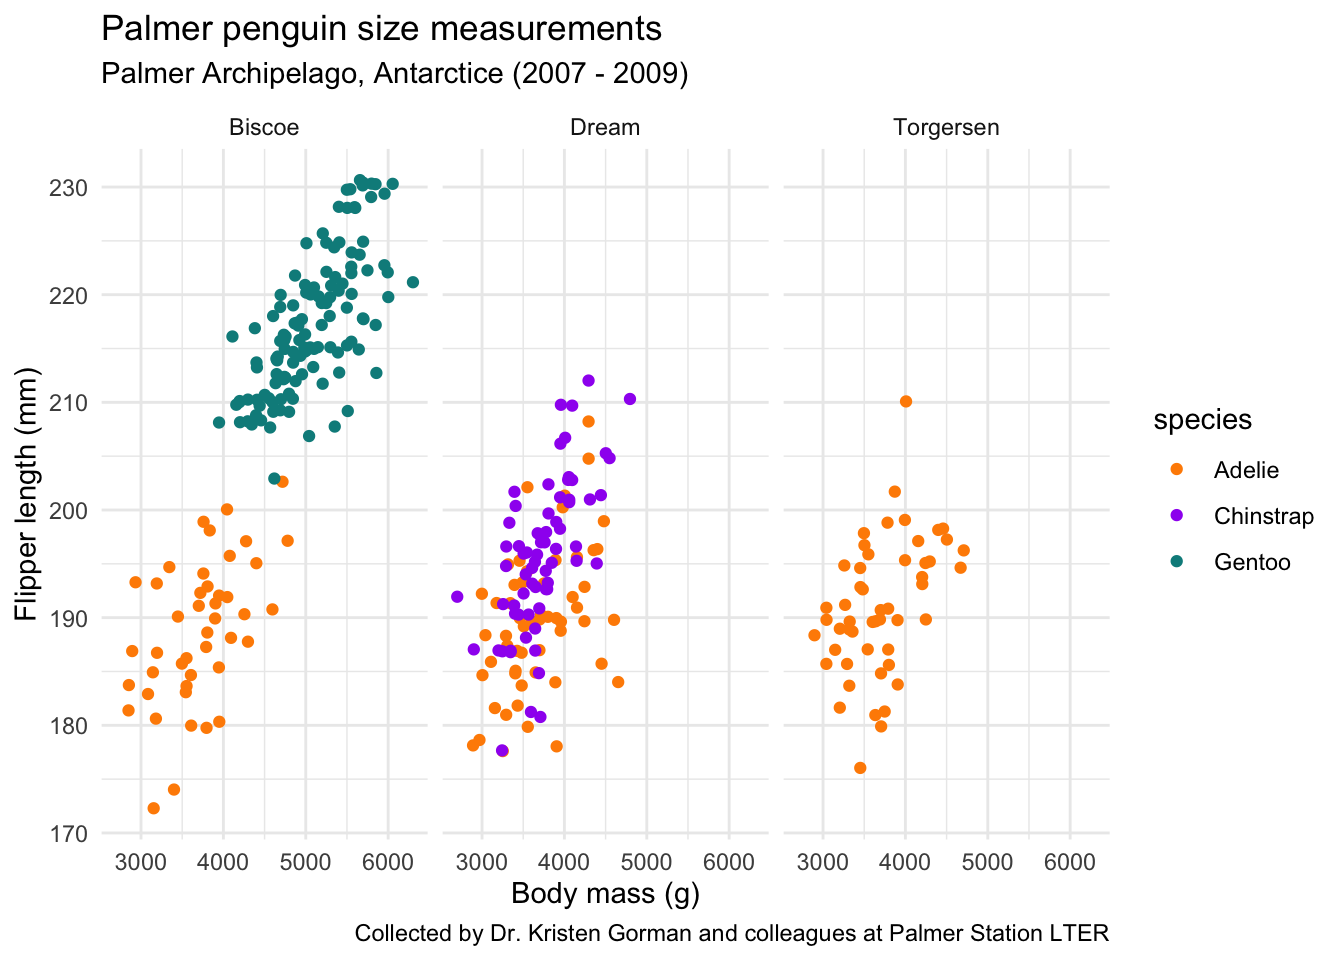
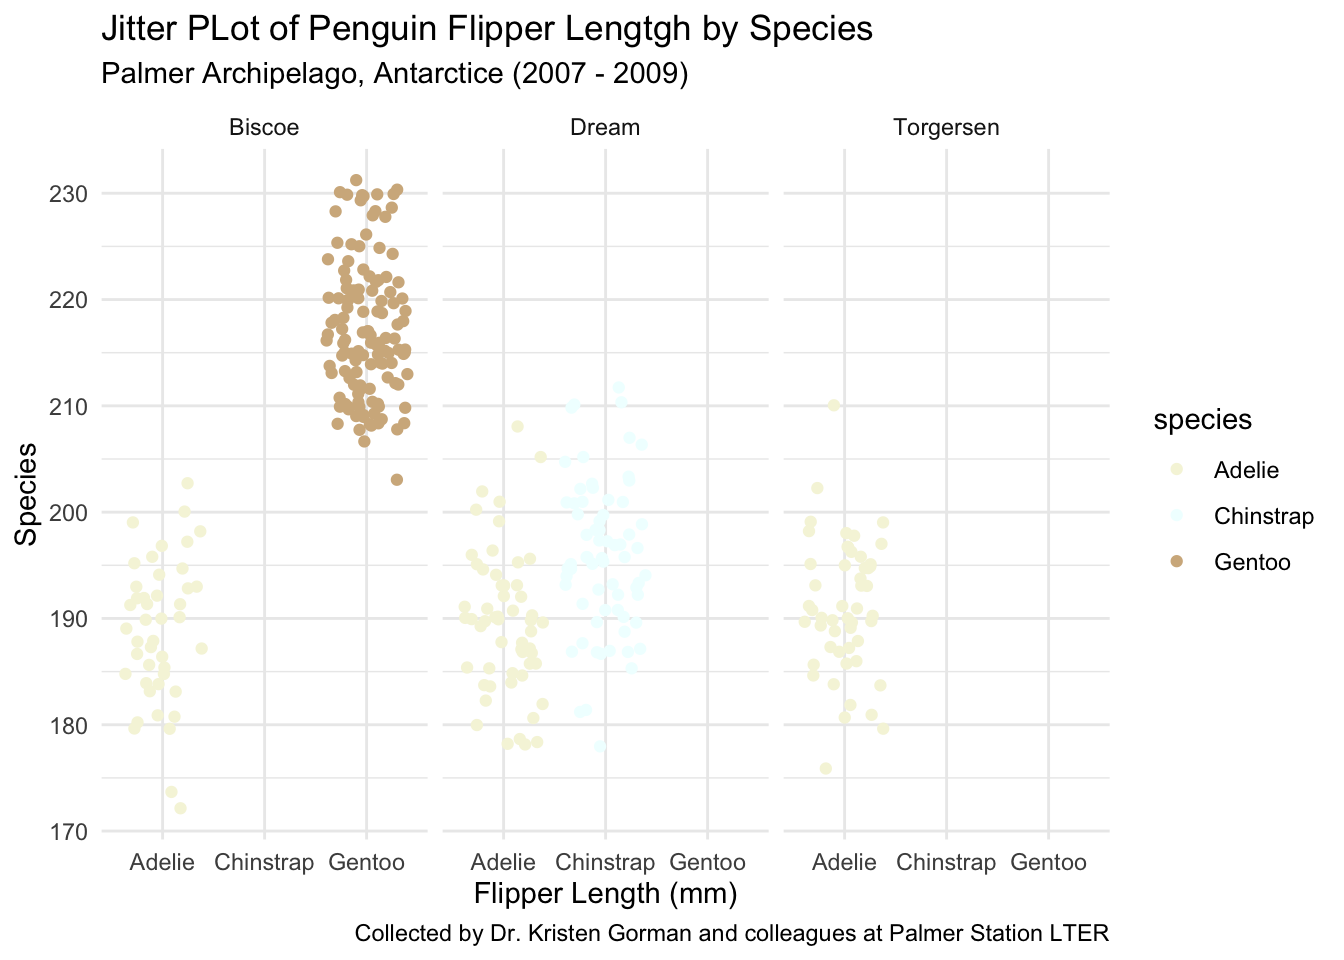
Updated Plot

diff --git a/eds212_day2_activities.html b/eds212_day2_activities.html
@@ -136,12 +136,12 @@ pre > code.sourceCode > span > a:first-child::before { text-decoration: underlin
 </div>
 </div>
 <div class="cell">
-<div class="sourceCode cell-code" id="cb9"><pre class="sourceCode r code-with-copy"><code class="sourceCode r"><span id="cb9-1"><a href="#cb9-1" aria-hidden="true" tabindex="-1"></a><span class="fu">ggplot</span>(<span class="at">data =</span> penguins, <span class="fu">aes</span>(<span class="at">x =</span> body_mass_g, <span class="at">y =</span> flipper_length_mm)) <span class="sc">+</span></span>
+<div class="sourceCode cell-code" id="cb9"><pre class="sourceCode r code-with-copy"><code class="sourceCode r"><span id="cb9-1"><a href="#cb9-1" aria-hidden="true" tabindex="-1"></a><span class="fu">ggplot</span>(<span class="at">data =</span> penguins, <span class="fu">aes</span>(<span class="at">x =</span> species, <span class="at">y =</span> flipper_length_mm)) <span class="sc">+</span></span>
 <span id="cb9-2"><a href="#cb9-2" aria-hidden="true" tabindex="-1"></a>  <span class="fu">geom_jitter</span>(<span class="fu">aes</span>(<span class="at">color =</span> species)) <span class="sc">+</span></span>
-<span id="cb9-3"><a href="#cb9-3" aria-hidden="true" tabindex="-1"></a>  <span class="fu">scale_color_manual</span>(<span class="at">values =</span> <span class="fu">c</span>(<span class="st">"darkorange"</span>,<span class="st">"purple"</span>,<span class="st">"cyan4"</span>)) <span class="sc">+</span></span>
-<span id="cb9-4"><a href="#cb9-4" aria-hidden="true" tabindex="-1"></a>  <span class="fu">labs</span>(<span class="at">x =</span> <span class="st">"Body mass (g)"</span>,</span>
-<span id="cb9-5"><a href="#cb9-5" aria-hidden="true" tabindex="-1"></a>       <span class="at">y =</span> <span class="st">"Flipper length (mm)"</span>,</span>
-<span id="cb9-6"><a href="#cb9-6" aria-hidden="true" tabindex="-1"></a>       <span class="at">title =</span> <span class="st">"Palmer penguin size measurements"</span>,</span>
+<span id="cb9-3"><a href="#cb9-3" aria-hidden="true" tabindex="-1"></a>  <span class="fu">scale_color_manual</span>(<span class="at">values =</span> <span class="fu">c</span>(<span class="st">"beige"</span> ,<span class="st">"azure"</span>, <span class="st">"tan"</span>)) <span class="sc">+</span></span>
+<span id="cb9-4"><a href="#cb9-4" aria-hidden="true" tabindex="-1"></a>  <span class="fu">labs</span>(<span class="at">x =</span> <span class="st">"Flipper Length (mm)"</span>,</span>
+<span id="cb9-5"><a href="#cb9-5" aria-hidden="true" tabindex="-1"></a>       <span class="at">y =</span> <span class="st">"Species"</span>,</span>
+<span id="cb9-6"><a href="#cb9-6" aria-hidden="true" tabindex="-1"></a>       <span class="at">title =</span> <span class="st">"Jitter PLot of Penguin Flipper Lengtgh by Species"</span>,</span>
 <span id="cb9-7"><a href="#cb9-7" aria-hidden="true" tabindex="-1"></a>       <span class="at">subtitle =</span> <span class="st">"Palmer Archipelago, Antarctice (2007 - 2009)"</span>,</span>
 <span id="cb9-8"><a href="#cb9-8" aria-hidden="true" tabindex="-1"></a>       <span class="at">caption =</span> <span class="st">"Collected by Dr. Kristen Gorman and colleagues at Palmer Station LTER"</span>) <span class="sc">+</span></span>
 <span id="cb9-9"><a href="#cb9-9" aria-hidden="true" tabindex="-1"></a>  <span class="fu">facet_wrap</span>(<span class="sc">~</span>island) <span class="sc">+</span></span>
